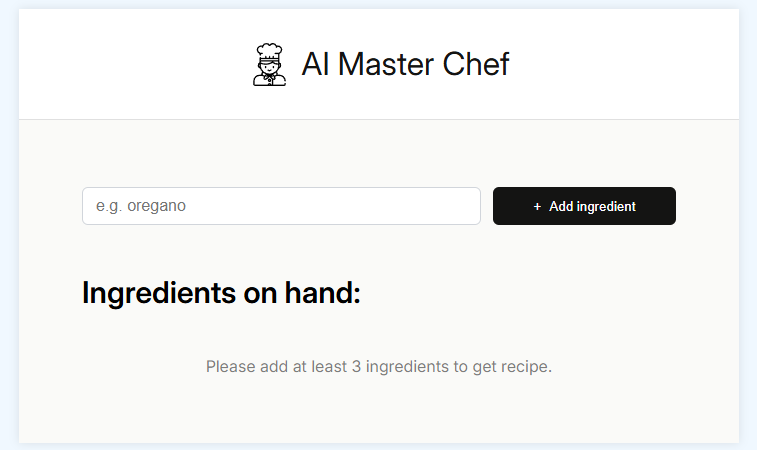
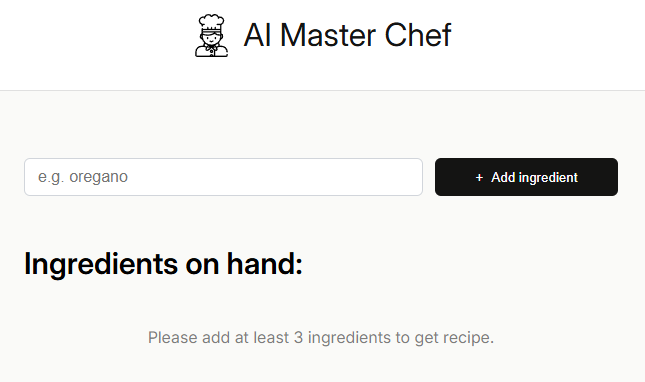
projects section

diff --git a/index.html b/index.html
@@ -94,31 +94,47 @@
 
       <section id="projects" class="main__projects">
         <h2 class="main__projects--heading">Projects</h2>
-        <div class="main__project--container">
+        <div class="main__projects--container">
           <img src="img/aiChef.png" alt="ai chef thumbnail" />
           <p>
             This is a recipe generator project I built using React and OpenAI.
           </p>
-          <button><a href="#">view live</a></button>
-          <button><a href="#">code</a></button>
+          <button>
+            <a href="https://ai-chef-pi.vercel.app/">view live</a>
+          </button>
+          <button>
+            <a href="https://github.com/niiquash/ai-chef">code</a>
+          </button>
         </div>
-        <div class="main__project--container">
+        <div class="main__projects--container">
           <img src="img/tenzies.png" alt="tenzies thumbnail" />
           <p>Tenzies game built in React.</p>
-          <button><a href="#">view live</a></button>
-          <button><a href="#">code</a></button>
+          <button>
+            <a href="https://tenzies-sooty-xi.vercel.app/">view live</a>
+          </button>
+          <button>
+            <a href="https://github.com/niiquash/tenzies">code</a>
+          </button>
         </div>
-        <div class="main__project--container">
+        <div class="main__projects--container">
           <img src="img/wordGuess.png" alt="word guessing game thumbnail" />
-          <p>Kinda like hangman/wordle. Also React.</p>
-          <button><a href="#">view live</a></button>
-          <button><a href="#">code</a></button>
+          <p>Kinda like hangman or wordle. Also React.</p>
+          <button>
+            <a href="https://guess-the-word-topaz.vercel.app/">view live</a>
+          </button>
+          <button>
+            <a href="https://github.com/niiquash/guess-the-word">code</a>
+          </button>
         </div>
-        <div class="main__project--container">
+        <div class="main__projects--container">
           <img src="img/memeGen.png" alt="meme generator thumbnail" />
           <p>Pretty simple meme generator app.</p>
-          <button><a href="#">view live</a></button>
-          <button><a href="#">code</a></button>
+          <button>
+            <a href="https://meme-generator-navy-nine.vercel.app/">view live</a>
+          </button>
+          <button>
+            <a href="https://github.com/niiquash/meme-generator">code</a>
+          </button>
         </div>
       </section>
 

diff --git a/css/styles.css b/css/styles.css
@@ -104,12 +104,14 @@ html {
 
 /* Main */
 .main {
-  margin-top: 7rem;
+  /* margin-top: 2rem; */
+  max-width: 800px;
   padding: 2rem;
   display: flex;
-  flex-direction: column;
   align-items: center;
   justify-content: center;
+  flex-direction: column;
+  margin: 0 auto;
 }
 
 .main__introduction {
@@ -183,6 +185,75 @@ html {
 }
 
 /* Projects section */
+.main__projects {
+  display: flex;
+  flex-direction: column;
+  align-items: center;
+  justify-content: center;
+  width: inherit;
+}
+
+.main__projects--heading {
+  font-size: 3rem;
+  font-family: "Lobster", serif;
+  font-weight: 500;
+  margin-bottom: 1.5rem;
+}
+
+.main__projects--container {
+  width: 450px;
+  padding: 2rem;
+  margin-bottom: 3rem;
+  border: 0.05rem solid rgba(0, 0, 0, 0.09);
+  border-radius: 8px;
+  box-shadow: 0px 2px 3px 1px rgba(0, 0, 0, 0.05);
+}
+
+.main__projects--container img {
+  width: 100%;
+  height: 200px;
+  object-fit: cover;
+  object-position: top;
+  margin-bottom: 1rem;
+}
+
+.main__projects--container p {
+  font-size: 1.3rem;
+  font-weight: 400;
+  margin-bottom: 1rem;
+}
+
+.main__projects--container button {
+  width: 100px;
+  height: 38px;
+  border: none;
+  border-radius: 4px;
+  background: black;
+  margin-right: 0.6rem;
+  transition: all 0.05s;
+}
+
+.main__projects--container button:hover {
+  background-color: whitesmoke;
+  border: 1px solid black;
+}
+
+.main__projects--container button a {
+  text-decoration: none;
+  color: whitesmoke;
+  font-size: 1rem;
+  font-weight: 500;
+  display: block;
+  width: 100%;
+  height: 100%;
+  display: flex;
+  align-items: center;
+  justify-content: center;
+}
+
+.main__projects--container button a:hover {
+  color: black;
+}
 
 /* Media Queries */
 @media (min-width: 758px) {
